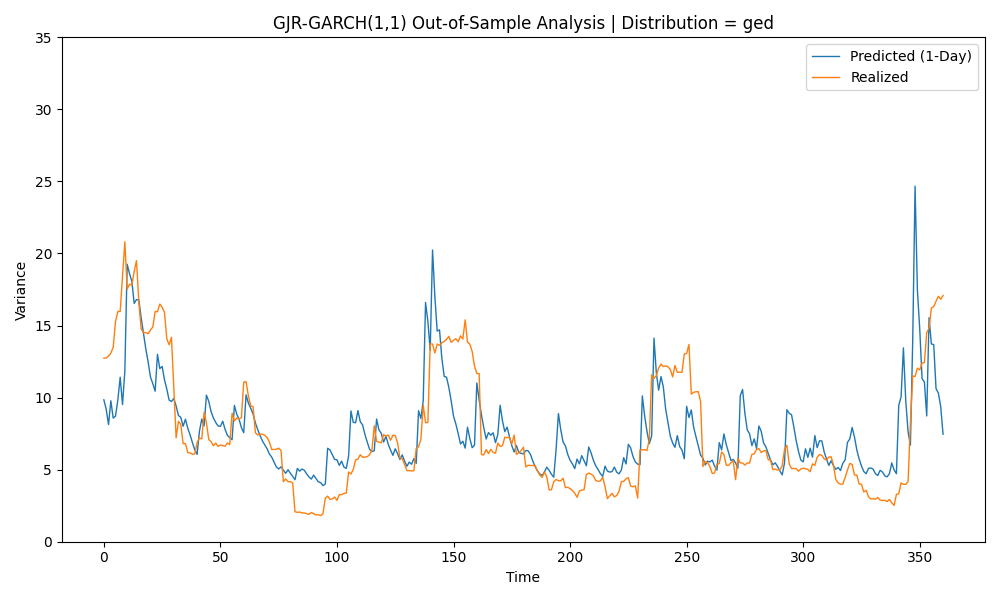
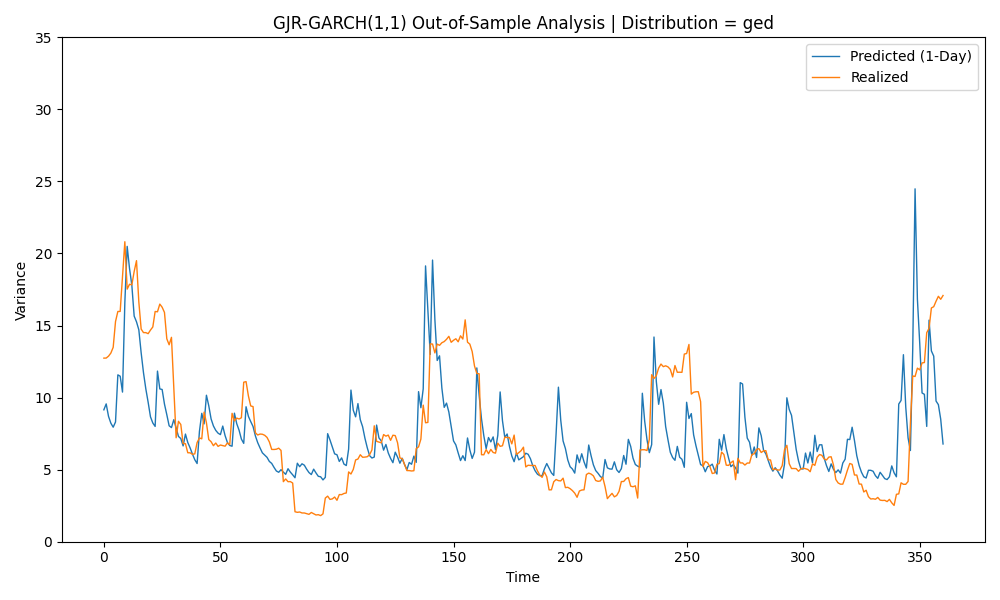
Updated plots with laplace distribution

diff --git a/models/rnn_garch_model.py b/models/rnn_garch_model.py
@@ -91,8 +91,8 @@ def negative_llk(residuals, cond_vars, dist='normal'):
     if dist == 'normal':
         log_2pi = torch.log(torch.tensor(2 * torch.pi, device=cond_vars.device))
         ll = -0.5 * (log_2pi + torch.log(cond_vars) + residuals**2 / cond_vars)
-    elif dist == 'ged':
-        beta_ged = 1.0  # Laplace
+    elif dist in ['laplace', 'ged']:
+        beta_ged = 1 if dist == 'laplace' else 1.5
         gamma_1 = gamma_fn(1 / beta_ged)
         gamma_3 = gamma_fn(3 / beta_ged)
         alpha_ged = torch.sqrt(cond_vars * gamma_1 / gamma_3)
@@ -143,7 +143,7 @@ def main():
     batch_size = 32
     lr = 1e-2
     dist = 'ged'
-    train = False
+    train = True
 
     # === Load residuals and realized variances ===
     residuals_df = pd.read_csv('../data/daily_residuals.csv', index_col=0, parse_dates=True)
@@ -212,15 +212,16 @@ def main():
 
     cond_vars_train = cond_vars_train.squeeze(0).cpu().numpy()
 
-    # plt.figure(figsize=(10, 6))
-    # plt.plot(cond_vars_train, label='Fitted', linewidth=1)
-    # plt.plot(realized_vars_train.numpy(), label='Realized', linewidth=1)
-    # plt.title('RNN-GARCH(1,1) In-Sample Analysis')
-    # plt.xlabel('Time')
-    # plt.ylabel('Variance')
-    # plt.legend()
-    # plt.tight_layout()
-    # plt.show()
+    plt.figure(figsize=(10, 6))
+    plt.plot(cond_vars_train, label='Fitted', linewidth=1)
+    plt.plot(realized_vars_train.numpy(), label='Realized', linewidth=1)
+    plt.title(f'RNN-GARCH(1,1) In-Sample Analysis | Distribution = {dist}')
+    plt.xlabel('Time')
+    plt.ylabel('Variance')
+    plt.ylim(-10, 250)
+    plt.legend(loc='upper right')
+    plt.tight_layout()
+    plt.show()
 
     # === Out-of-sample performance ===
     forecasted_vars = np.zeros(len(residuals_test))
@@ -248,7 +249,7 @@ def main():
     plt.figure(figsize=(10, 6))
     plt.plot(forecasted_vars, label='Predicted (1-Day)', linewidth=1)
     plt.plot(realized_vars_test.numpy(), label='Realized', linewidth=1)
-    plt.title(f'RNN-GARCH(1,1) Out-of-Sample Analysis | Distribution: {dist}')
+    plt.title(f'RNN-GARCH(1,1) Out-of-Sample Analysis | Distribution = {dist}')
     plt.xlabel('Time')
     plt.ylabel('Variance')
     plt.ylim(0, 35)

diff --git a/main.py b/main.py
@@ -17,7 +17,7 @@ warnings.filterwarnings('ignore')
 
 
 # === Adjustable parameters ===
-model_type = 'CVX-GARCH' 
+model_type = 'RT-GARCH' 
 asset = 'BTC' 
 dist = 'ged'
 horizon = 1 
@@ -92,15 +92,16 @@ print(f'AIC = {model.aic:.2f}')
 
 
 # === Plot in-sample conditional variance ===
-# plt.figure(figsize=(10, 6))
-# plt.plot(model.conditional_variance, label='Fitted', linewidth=1)
-# plt.plot(realized_vars_train, label='Realized', linewidth=1)
-# plt.title(f'{model_type}(1,1) In-Sample Analysis')
-# plt.xlabel('Time')
-# plt.ylabel('Variance')
-# plt.legend()
-# plt.tight_layout()
-# plt.show()
+plt.figure(figsize=(10, 6))
+plt.plot(model.conditional_variance, label='Fitted', linewidth=1)
+plt.plot(realized_vars_train, label='Realized', linewidth=1)
+plt.title(f'{model_type}(1,1) In-Sample Analysis | Distribution = {dist}')
+plt.xlabel('Time')
+plt.ylabel('Variance')
+plt.ylim(-10, 250)
+plt.legend(loc='upper right')
+plt.tight_layout()
+plt.show()
 
 
 # === Forecast future variance ===

diff --git a/results.py b/results.py
@@ -47,8 +47,8 @@ model_classes = {
 results = []
 
 # Run all combinations
-for model_type in ['GARCH', 'CVX-GARCH', 'RT-GARCH']:
-    for dist in ['normal', 'ged']:
+for model_type in ['GARCH', 'EGARCH', 'GJR-GARCH', 'CVX-GARCH', 'RT-GARCH']:
+    for dist in ['normal', 't', 'ged']:
         print(f'Running {model_type} with {dist} distribution')
         VolatilityModel = model_classes[model_type]
 
